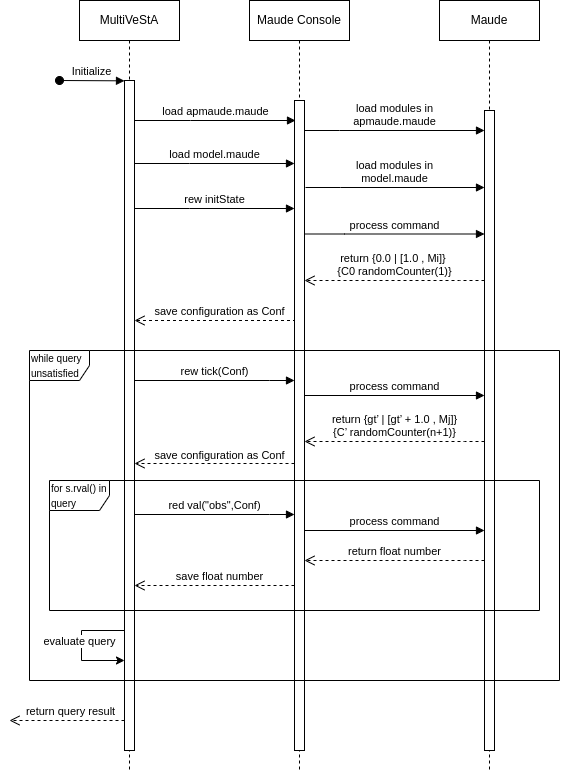
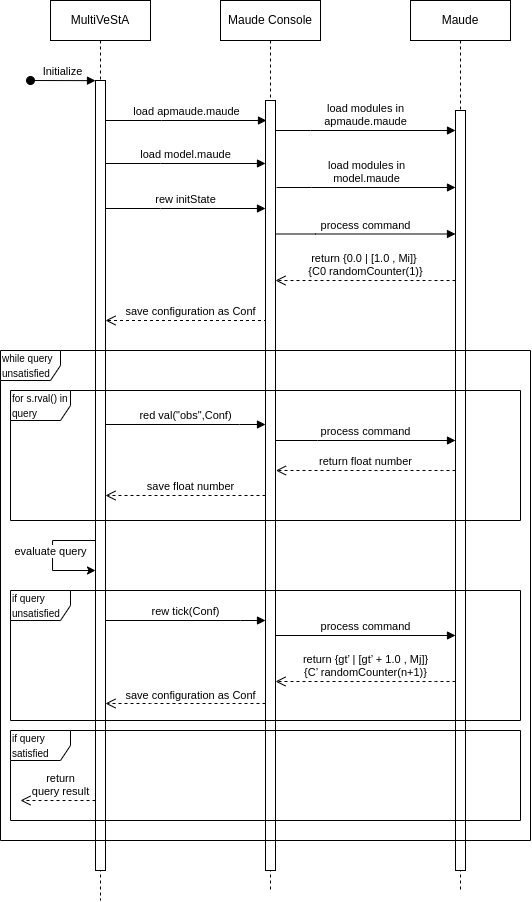
Fixed small error chapter 4

diff --git a/Latex/multivesta.tex b/Latex/multivesta.tex
@@ -232,6 +232,10 @@ insert({0.0 | nilSL },[ 0.0 + 1.0 , Mi]) $\rightarrow$ {0.0 | [1.0 , Mi] }
 
 \item MultiVeStA reads the Maude console and saves the current configuration. The saved configuration will be defined as \texttt{Conf}.
 
+\item MultiVeStA evaluates the query in query.multiquatex, using the user defined equations for the \texttt{val} operators, to calculate the \texttt{s.rval()} state observations. To do this, for every \texttt{s.rval("obs")} in the query, MultiVeStA sends to Maude the command \texttt{red val("obs", Conf)}, and obtains the float number returned by the equation. Using these results of the \texttt{val} equations, then MultiVeStA is able to evaluate the query.
+
+\item If the query is satisfied, then MultiVeStA gets the float number returned by the query. If not, then continue with step 6.
+
 \item MultiVeStA sends the command \texttt{rew tick(Conf)}.
     \begin{enumerate}
         \item Maude reduces the term \texttt{rew tick(Conf)}:
@@ -259,17 +263,15 @@ insert({gt' | nilSL},[gt' + 1.0 , Mj]) $\rightarrow$ {gt' | [gt' + 1.0 , Mj]}
 {C' randomCounter(n+1)}                   {C' randomCounter(n+1)}\end{maude}
     \end{enumerate}
 
-    \item MultiVeStA reads the Maude console and saves the current configuration. The saved configuration will be defined as \texttt{Conf}.
-
-    \item MultiVeStA evaluates the query in query.multiquatex, using the user defined equations for the \texttt{val} operators, to calculate the \texttt{s.rval()} state observations. To do this, for every \texttt{s.rval("obs")} in the query MultiVeStA sends to Maude the command \texttt{red val("obs", Conf)}, and obtains the float number returned by the equation. Using these results of the \texttt{val} equations, then MultiVeStA is able to evaluate the query.
+    \item Repeat step 3 and 4.
     
-    \item If the query is satisfied, then get the float number returned by the query. If not, then repeat step 4 over the previous configuration \texttt{Conf}, and then steps 5 through 7, until the formula is satisfied.
+    \item If the query is satisfied, then get the float number returned by the query. If not, then repeat steps 6 trough 8 over the previous configuration \texttt{Conf}, until the formula is satisfied.
 \end{enumerate}
 The complete process can be visualized in a sequence diagram, that extends the previous one presented in figure \ref{fig:multi4}:
 
 \begin{figure}[H]
     \centering
-    \includegraphics[scale = 0.6]{images/multi5.png}
+    \includegraphics[scale = 0.5]{images/multi5.png}
     \caption{Extension of sequence diagram in Figure \ref{fig:multi4}}
     \label{fig:multi5}
 \end{figure}
